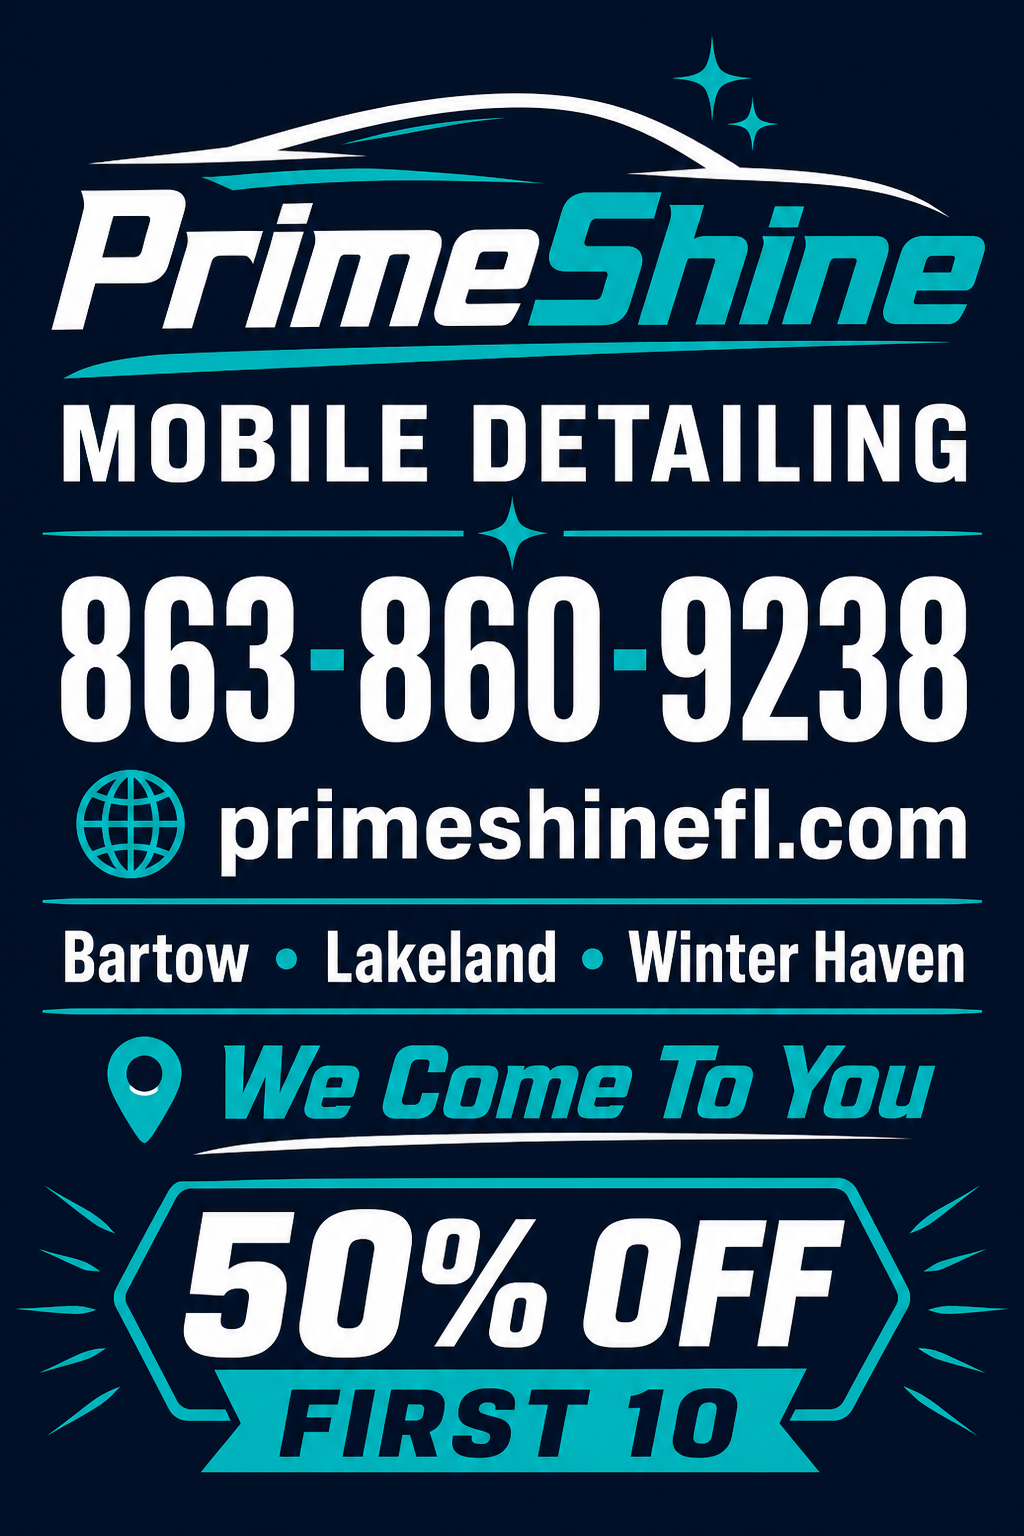
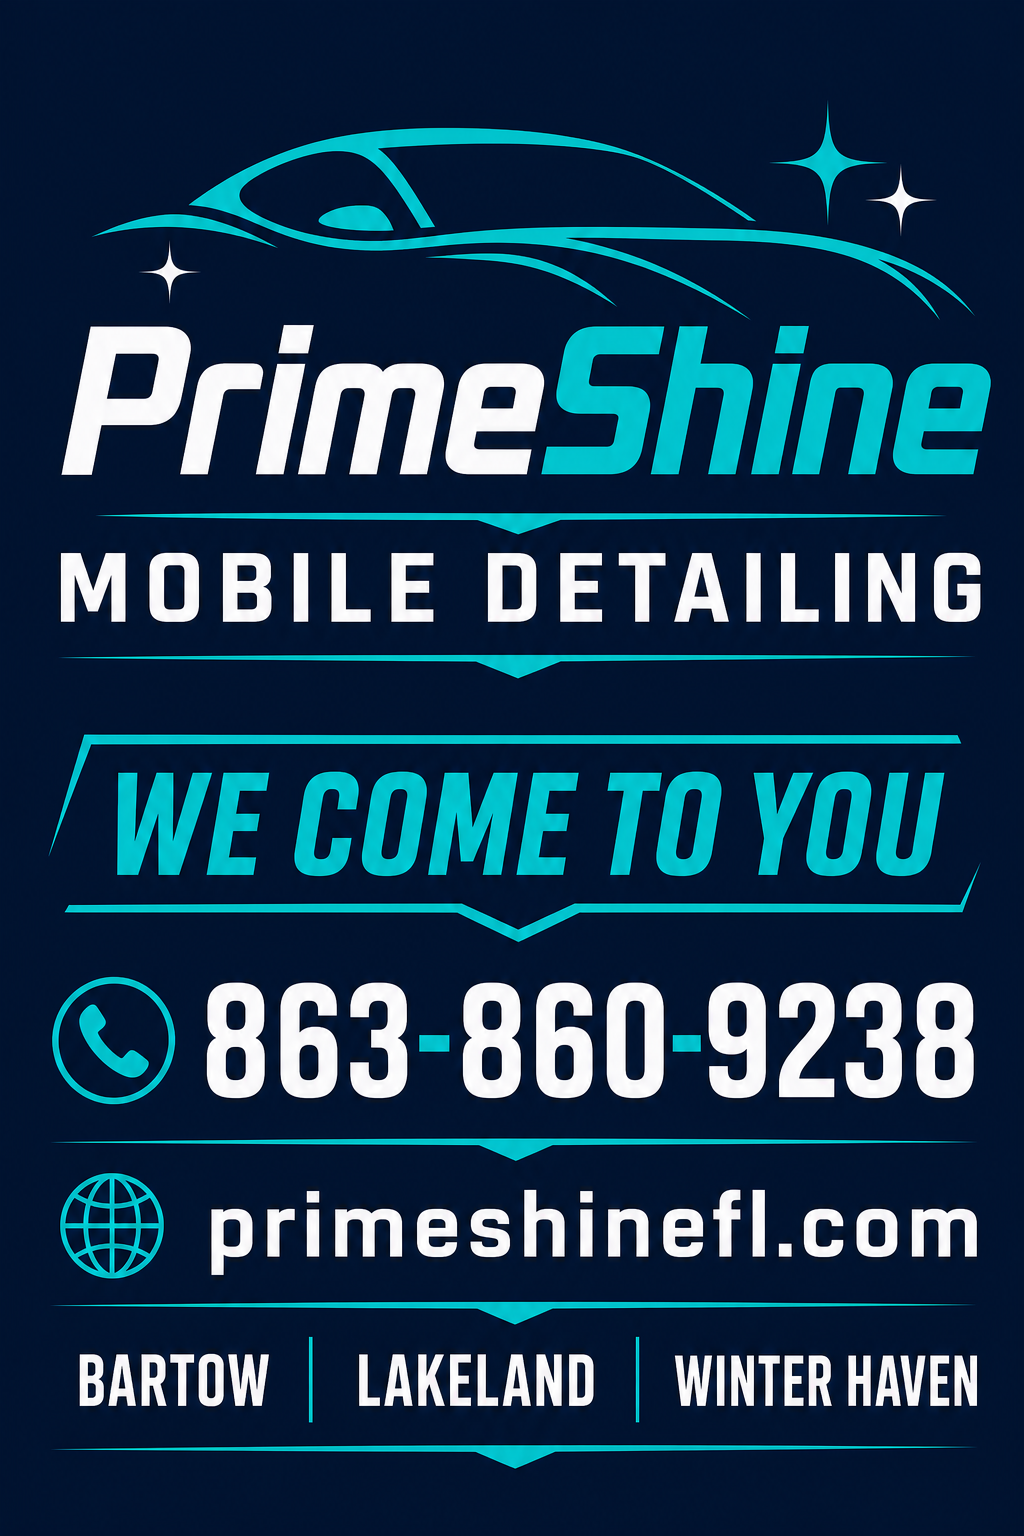
Remove launch discount from PrimeShine stand artwork
Keep yard sign, A-frame, and banner evergreen; leave 50% promo on
website/social only so printed stands stay usable after launch.

diff --git a/primeshine-website/print/SITE-STANDS-ORDER.md b/primeshine-website/print/SITE-STANDS-ORDER.md
@@ -33,9 +33,9 @@ These are the **physical stands/signs** that promote the business (not business 
 - Outdoor / waterproof material for yard + A-frame
 
 ## Promo line on all stands
-- 50% OFF Launch · First 10 customers · Code **LAUNCH**
 - Phone **863-860-9238**
 - Web **primeshinefl.com**
+- No discount text (evergreen — launch promo stays on the website only)
 
 ## Do next week
 1. Confirm van purchase
